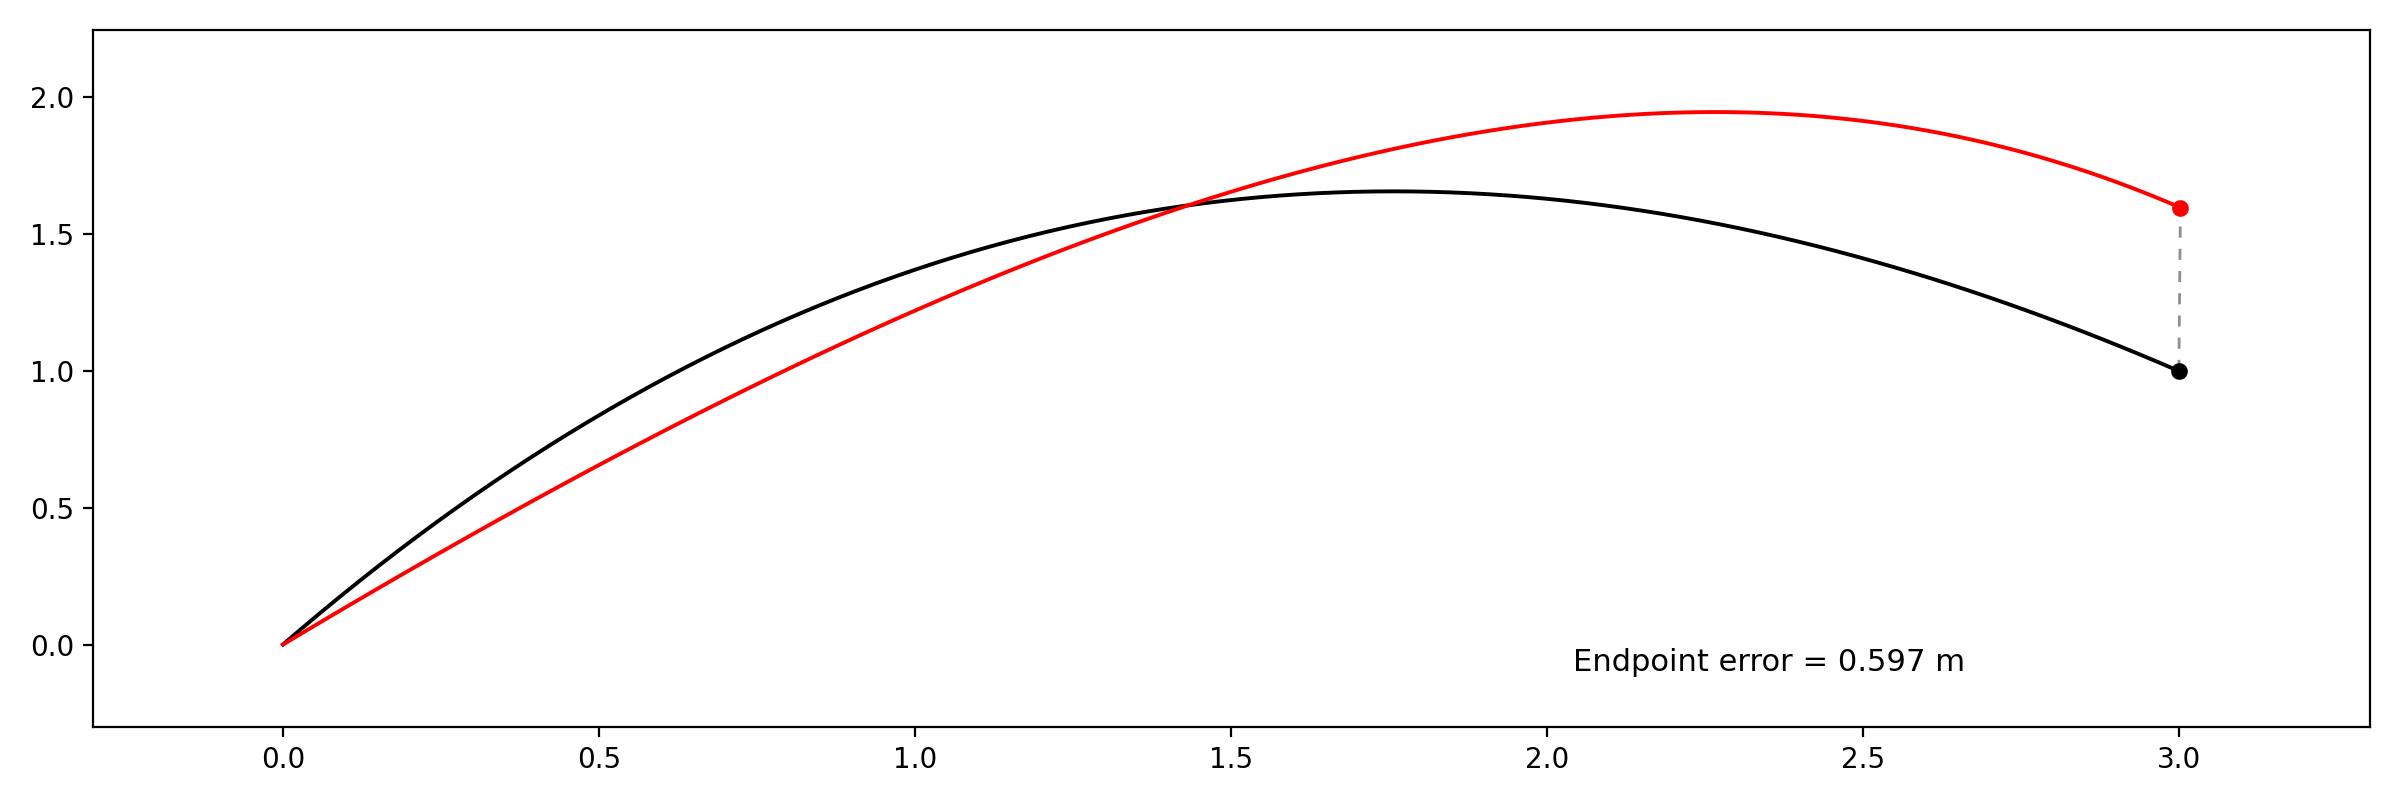
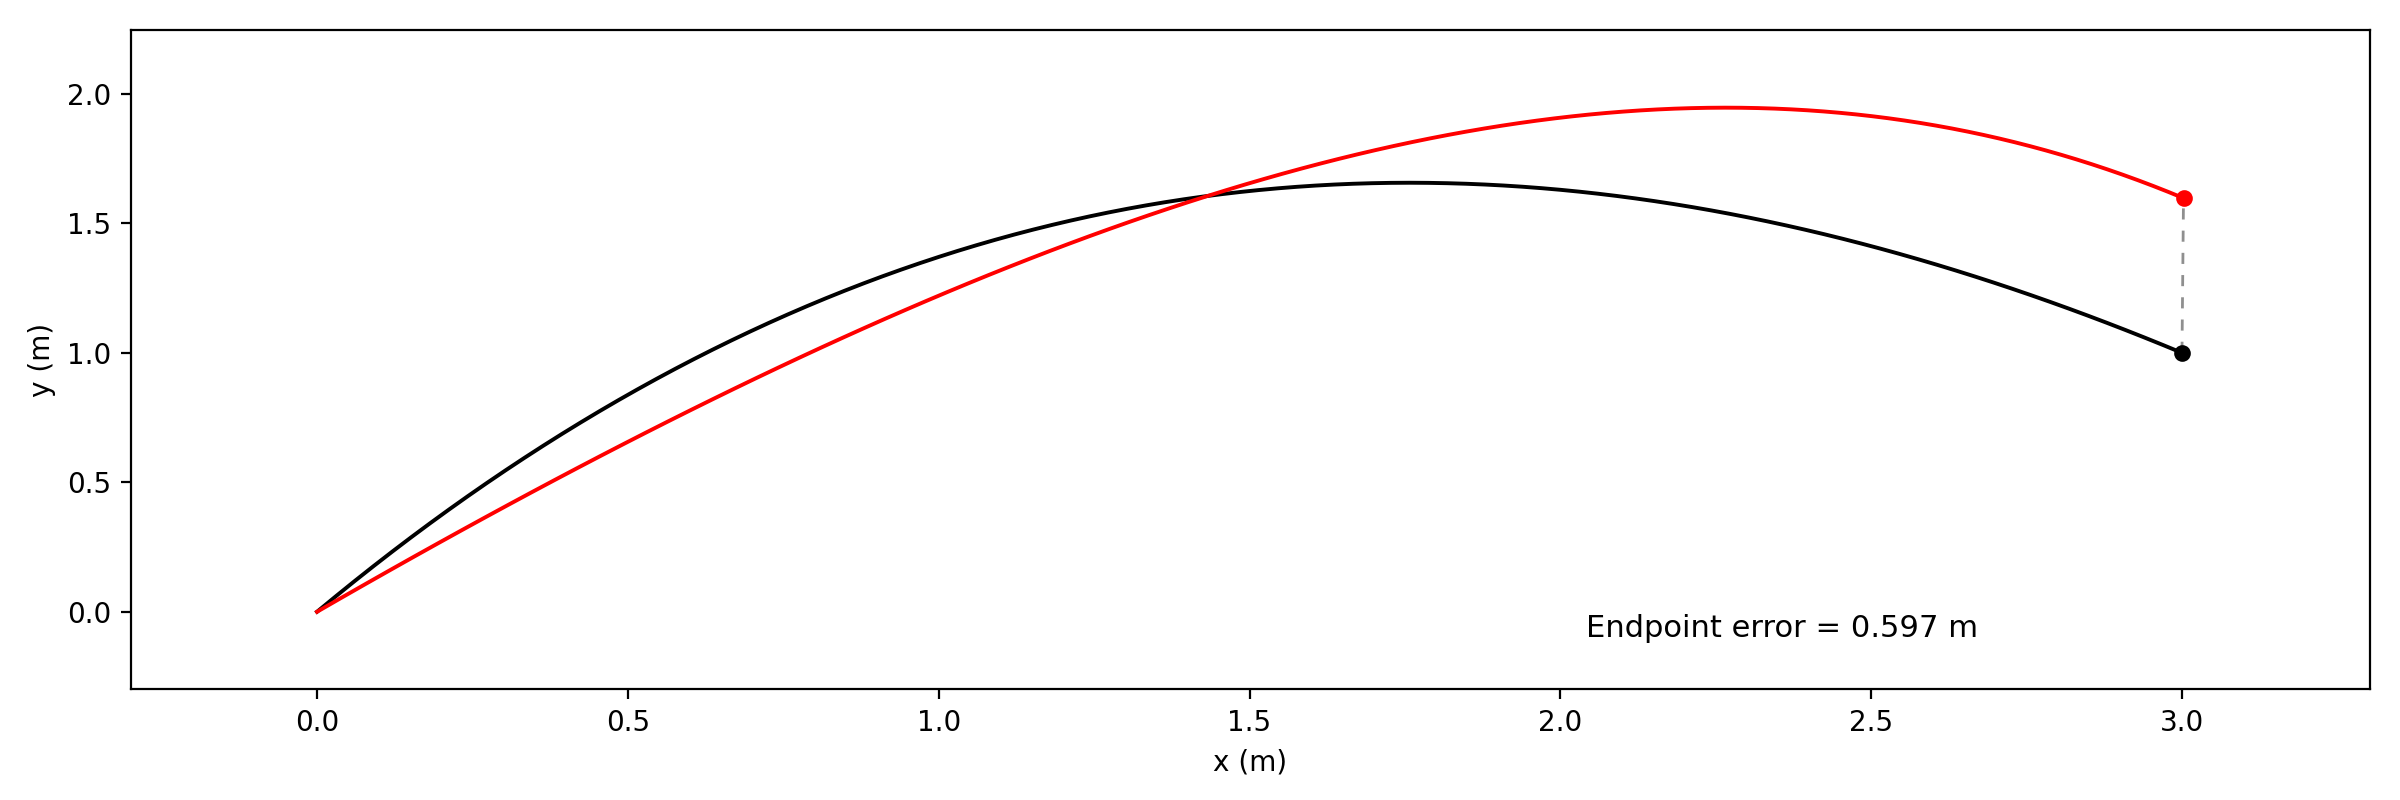
cleaner

diff --git a/visualisation_tool/metrics/KITTI/visualise_kitti.py b/visualisation_tool/metrics/KITTI/visualise_kitti.py
@@ -1,8 +1,5 @@
 """
-KITTI Odometry Metrics visualisation.
-t_err: avg translational error (%) over sub-sequences
-r_err: avg rotational error (deg/m) over sub-sequences
-Ground truth = 0 drift (perfect odometry baseline).
+KITTI Odometry Translation Drift visualisation.
 """
 
 import numpy as np
@@ -10,31 +7,85 @@ import matplotlib.pyplot as plt
 
 rng = np.random.default_rng(0)
 
-lengths = np.array([100, 200, 300, 400, 500, 600, 700, 800])
 
-t_err = np.clip(1.5 + rng.normal(0, 0.3, len(lengths)), 0.1, None)
-r_err = np.clip(0.005 + rng.normal(0, 0.003, len(lengths)), 0.001, None)
+# KITTI evaluation segment lengths
+lengths = np.array(
+    [100, 200, 300, 400, 500, 600, 700, 800]
+)
 
-fig, axes = plt.subplots(1, 2, figsize=(10, 4))
-fig.suptitle("KITTI Odometry Metrics")
+# Simulated KITTI translational drift (%)
+t_err = np.clip(
+    1.5 + rng.normal(0, 0.3, len(lengths)),
+    0.1,
+    None,
+)
 
-axes[0].plot(lengths, np.zeros_like(lengths), "g-", lw=1.5, label="Ground truth (0%)")
-axes[0].plot(lengths, t_err, "o-", color="steelblue", label=f"Estimated (avg {t_err.mean():.2f}%)")
-axes[0].set_xlabel("Sub-sequence length (m)")
-axes[0].set_ylabel("Translational error (%)")
-axes[0].set_title("t_err")
-axes[0].legend()
-axes[0].grid(True, alpha=0.3)
+mean_drift = np.mean(t_err)
 
-axes[1].plot(lengths, np.zeros_like(lengths), "g-", lw=1.5, label="Ground truth (0)")
-axes[1].plot(lengths, r_err * 1000, "o-", color="tomato",
-             label=f"Estimated (avg {r_err.mean()*1000:.3f} ×10⁻³ deg/m)")
-axes[1].set_xlabel("Sub-sequence length (m)")
-axes[1].set_ylabel("Rotational error (×10⁻³ deg/m)")
-axes[1].set_title("r_err")
-axes[1].legend()
-axes[1].grid(True, alpha=0.3)
+
+fig, ax = plt.subplots(
+    figsize=(10, 4),
+    dpi=50,
+)
+
+
+# Translation drift curve
+ax.plot(
+    lengths,
+    t_err,
+    "-o",
+    color="red",
+    lw=1.4,
+    ms=5,
+    mfc="red",
+    mec="red",
+    zorder=3,
+)
+
+
+# Average drift line
+ax.axhline(
+    mean_drift,
+    color="black",
+    ls=(0, (4, 3)),
+    lw=1.2,
+)
+
+
+# Annotation
+ax.text(
+    lengths[-2],
+    mean_drift + 0.05,
+    f"Mean drift = {mean_drift:.2f} %",
+    fontsize=11,
+    color="black",
+)
+
+
+# Limits with whitespace
+ax.set_xlim(
+    lengths[0] - 30,
+    lengths[-1] + 30,
+)
+
+ax.set_ylim(
+    0,
+    max(t_err) * 1.25,
+)
+
+
+# Clean style matching ATE figure
+#ax.set_title("KITTI translation drift")
+ax.set_xlabel("Segment length (m)")
+ax.set_ylabel("Translation error (%)")
+#ax.grid(True, alpha=0.3)
+#ax.set_axis_off()
+
 
 plt.tight_layout()
-plt.savefig("kitti_visualisation.png", dpi=150)
-plt.show()
+plt.savefig(
+    "kitti_translation_drift_visualisation.png",
+    dpi=400,
+)
+
+#plt.show()

diff --git a/visualisation_tool/metrics/ATE/visualise_ate.py b/visualisation_tool/metrics/ATE/visualise_ate.py
@@ -79,6 +79,8 @@ ymin = min(gt[:,1].min(), est[:,1].min()) - pad
 ymax = max(gt[:,1].max(), est[:,1].max()) + pad
 ax.set_xlim(xmin, xmax)
 ax.set_ylim(ymin, ymax)
+ax.set_xlabel("x (m)")
+ax.set_ylabel("y (m)")
 #ax.axis("equal")
 #ax.set_title("Trajectory")
 #ax.legend(fontsize=8)
@@ -110,6 +112,8 @@ ax.text(
 )
 ax.set_xlim(-0.5, len(errors)-0.5)
 ax.set_ylim(0, max(errors) * 1.15)
+ax.set_xlabel("trajectory Index")
+ax.set_ylabel("ATE per frame (m)")
 #ax.set_title("Trajectory")
 #ax.legend(fontsize=8)
 #ax.grid(True, alpha=0.3)

diff --git a/visualisation_tool/metrics/endpoint_error/visualise_endpoint_error.py b/visualisation_tool/metrics/endpoint_error/visualise_endpoint_error.py
@@ -106,6 +106,8 @@ ax.text(
 
 
 # Same clean style as ATE figure
+ax.set_xlabel("x (m)")
+ax.set_ylabel("y (m)")
 #ax.axis("equal")
 #ax.set_title("Endpoint Error")
 #ax.legend(fontsize=8)